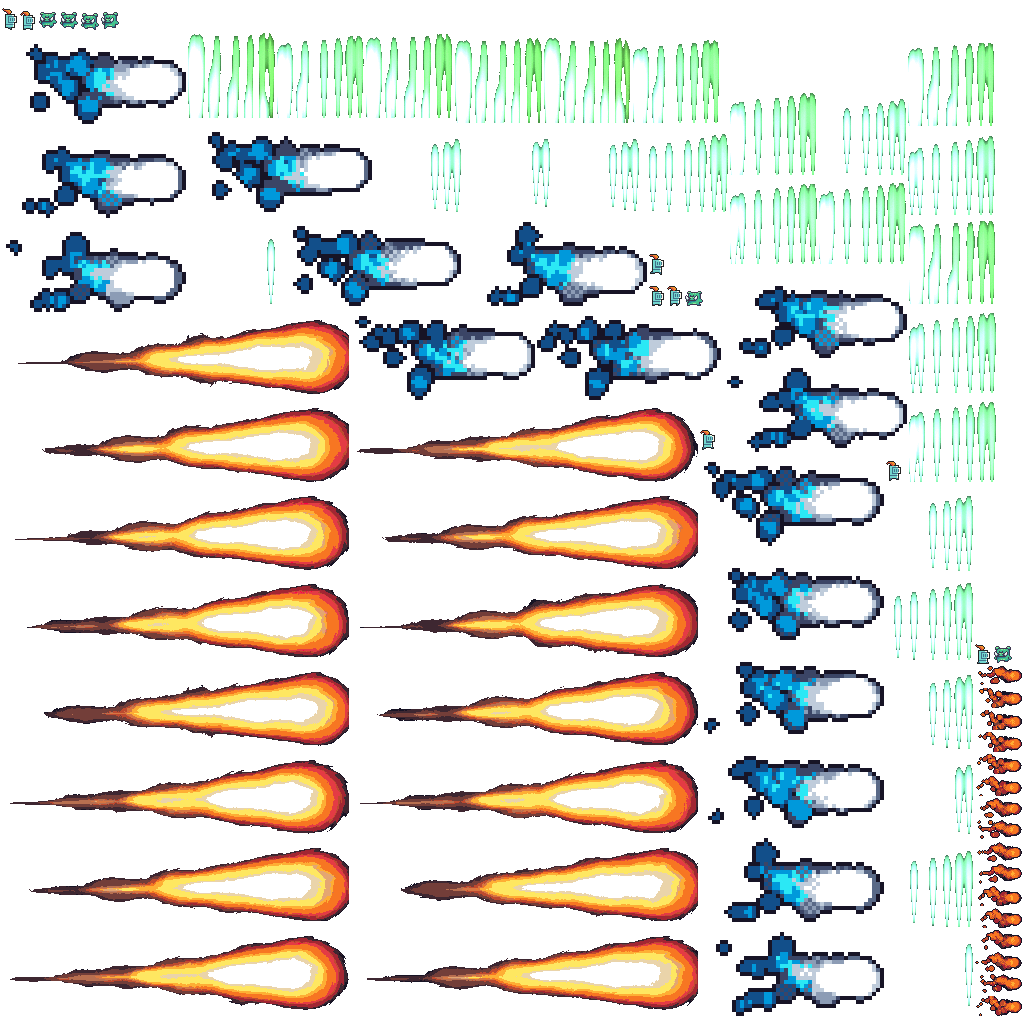
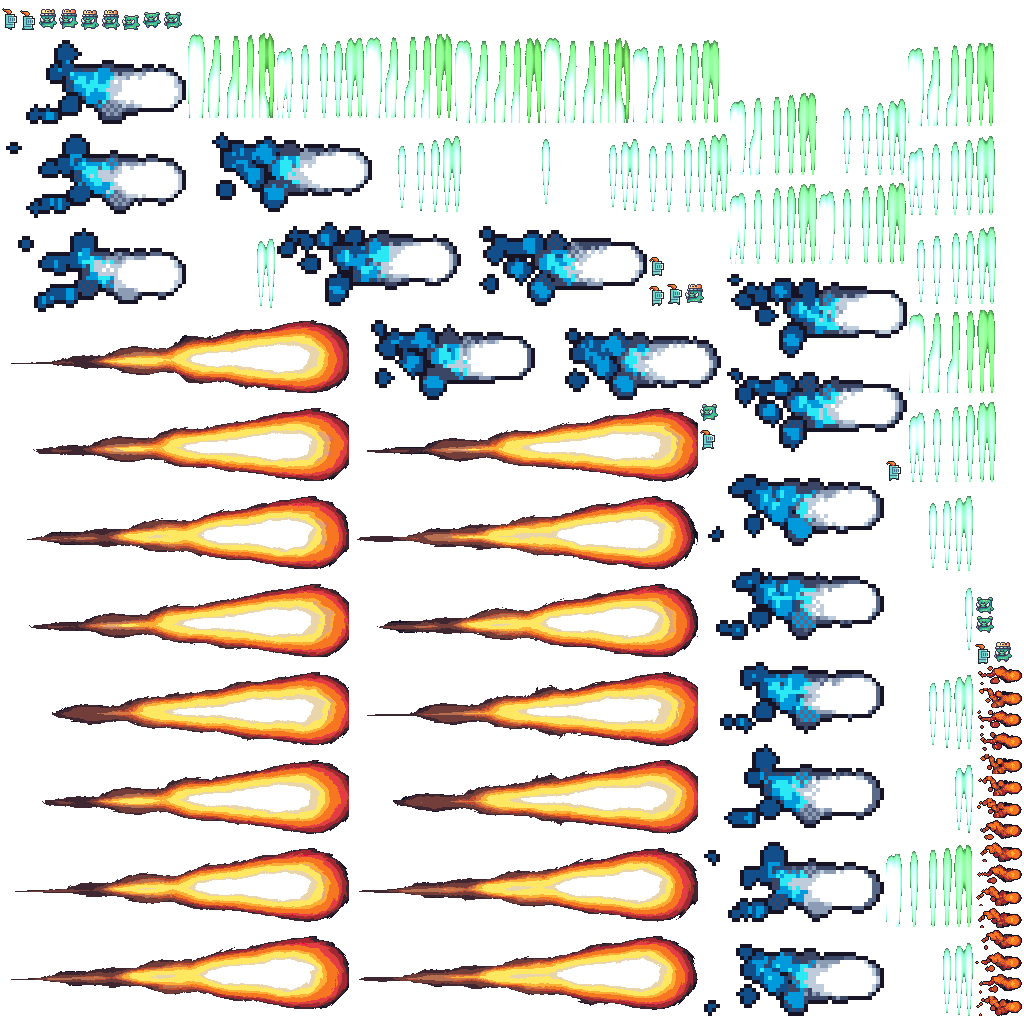
aggiunto nemico 2, anche il salvataggio, manca solo dirlo a tiled quali spawnare

diff --git a/core/src/com/prog/collision/LevelContactListener.java b/core/src/com/prog/collision/LevelContactListener.java
@@ -4,7 +4,7 @@ import com.badlogic.gdx.physics.box2d.Contact;
 import com.badlogic.gdx.physics.box2d.ContactImpulse;
 import com.badlogic.gdx.physics.box2d.ContactListener;
 import com.badlogic.gdx.physics.box2d.Manifold;
-import com.prog.entity.EnemyA;
+import com.prog.entity.Enemy;
 import com.prog.entity.Entity.userDataContainer;
 import com.prog.entity.Player;
 import com.prog.entity.magia.Magia;
@@ -54,60 +54,59 @@ public class LevelContactListener implements ContactListener{
             spellB.alive=false;
         }
         
-        if(!isSensorB && !isSensorA && a != null && a.type == "magia" &&  b != null && b.type == "enemyA")
+        if(!isSensorB && !isSensorA && a != null && a.type == "magia" &&  b != null && (b.type == "enemyA" || b.type == "enemyB"))
         {
             if(a.e instanceof PallaDiFuoco)
-                ((EnemyA)b.e).damage(0.4f);
+                ((Enemy)b.e).damage(0.4f);
             else if(a.e instanceof PallaDiGhiaccio)
             {
-                ((EnemyA)b.e).debuffVelocita();
-                ((EnemyA)b.e).damage(0.2f);
+                ((Enemy)b.e).debuffVelocita();
+                ((Enemy)b.e).damage(0.2f);
             }
             else if(a.e instanceof Meteora)
-                ((EnemyA)b.e).damage(0.8f);
-                
+                ((Enemy)b.e).damage(0.8f); 
         }
         
-        if(!isSensorA && !isSensorB && b != null && a != null &&  b.type == "magia" && a.type == "enemyA")
+        if(!isSensorA && !isSensorB && b != null && a != null &&  b.type == "magia" && (a.type == "enemyA" || a.type == "enemyB"))
         {
             if(b.e instanceof PallaDiFuoco)
-                ((EnemyA)a.e).damage(0.4f);
+                ((Enemy)a.e).damage(0.4f);
             else if(b.e instanceof PallaDiGhiaccio)
             {
-                ((EnemyA)a.e).damage(0.2f);
-                ((EnemyA)a.e).debuffVelocita();
+                ((Enemy)a.e).damage(0.2f);
+                ((Enemy)a.e).debuffVelocita();
             }
             else if(b.e instanceof Meteora)
-                ((EnemyA)a.e).damage(0.8f);
+                ((Enemy)a.e).damage(0.8f);
         }
         
         
-        if(!isSensorA && !isSensorB && b != null && a != null && a.type == "player" && b.type == "enemyA")
+        if(!isSensorA && !isSensorB && b != null && a != null && a.type == "player" && (b.type == "enemyA" || b.type == "enemyB"))
             ((Player)a.e).applyDmg(0.25f);
         
-        if(!isSensorA && !isSensorB && b != null && a != null && b.type == "player" && a.type == "enemyA")
+        if(!isSensorA && !isSensorB && b != null && a != null && b.type == "player" && (a.type == "enemyA" || a.type == "enemyB"))
             ((Player)b.e).applyDmg(0.25f);
         
         
         //se un nemico tocca qualunque cosa che non sia il player 
         if(isSensorA && a.type=="enemyLeftFoot" &&!(b != null && (b.type == "player" || b.type == "player_foot")))
         {
-            ((EnemyA)a.e).walkLeft=false;
+            ((Enemy)a.e).walkLeft=false;
         }
         
         if(isSensorB && b.type=="enemyLeftFoot" && !(a != null && (a.type == "player" || a.type == "player_foot")))
         {
-            ((EnemyA)b.e).walkLeft=false;
+            ((Enemy)b.e).walkLeft=false;
         }
         
         if(isSensorA && a.type=="enemyRightFoot" &&!(b != null && (b.type == "player" || b.type == "player_foot")))
         {
-            ((EnemyA)a.e).walkLeft=true;
+            ((Enemy)a.e).walkLeft=true;
         }
         
         if(isSensorB && b.type=="enemyRightFoot"&& !(a != null && (a.type == "player" || a.type == "player_foot")))
         {
-            ((EnemyA)b.e).walkLeft=true;
+            ((Enemy)b.e).walkLeft=true;
         }
         
         //fine collisione piedi del nemico con le mura
@@ -138,22 +137,22 @@ public class LevelContactListener implements ContactListener{
         //piediiiii
         if(isSensorA && a.type=="enemyLeftFoot")
         {
-            ((EnemyA)a.e).walkLeft=false;
+            ((Enemy)a.e).walkLeft=false;
         }
         
         if(isSensorB && b.type=="enemyLeftFoot")
         {
-            ((EnemyA)b.e).walkLeft=false;
+            ((Enemy)b.e).walkLeft=false;
         }
         
         if(isSensorA && a.type=="enemyRightFoot")
         {
-            ((EnemyA)a.e).walkLeft=true;
+            ((Enemy)a.e).walkLeft=true;
         }
         
         if(isSensorB && b.type=="enemyRightFoot")
         {
-            ((EnemyA)b.e).walkLeft=true;
+            ((Enemy)b.e).walkLeft=true;
         }
     }
 

diff --git a/core/src/com/prog/entity/EnemyFactory.java b/core/src/com/prog/entity/EnemyFactory.java
@@ -30,22 +30,21 @@ public class EnemyFactory {
         }
     };
     
-    /*
+    
     private final Pool<EnemyB> EnemyBPool = new Pool<EnemyB>() {
         @Override
         protected EnemyB newObject() {
             return new EnemyB();
         }
-    };*/
+    };
     
     //chiamala quando vuoi creare una spell
     public Enemy createEnemy(EnemyType t){
        switch(t){
          case A:
             return EnemyAPool.obtain();
-         /*case B:
+         case B:
              return EnemyBPool.obtain();
-         */
         }
         //altrimenti ritorno null
         return null;
@@ -56,9 +55,9 @@ public class EnemyFactory {
        if(e instanceof EnemyA){
          EnemyAPool.free((EnemyA)e);
        }
-       /*else if(e instanceof EnemyB){
+       else if(e instanceof EnemyB){
          EnemyBPool.free((EnemyB)e);
-       }*/
+       }
     }
     
     public static Vector2 getPlayerPos()
@@ -112,7 +111,11 @@ public class EnemyFactory {
                     e.init(s.getPos(), s.getHp());
                     activeEnemies.add(e);
                     break;
-                
+                case "E2":
+                    Enemy e2 = createEnemy(EnemyType.B);
+                    e2.init(s.getPos(),s.getHp());
+                    activeEnemies.add(e2);
+                    break;
             }
         }
     }

diff --git a/core/src/com/prog/world/Livello1.java b/core/src/com/prog/world/Livello1.java
@@ -113,11 +113,7 @@ public class Livello1 extends Livello implements Screen{
         tex = new Texture("images/tutorial1.png");
         tex2 = new Texture("images/tutorial2.png");
         tex3 = new Texture("images/tutorial3.png");
-        tex4 = new Texture("images/tutorial4.png");
-
-        
-
-        
+        tex4 = new Texture("images/tutorial4.png"); 
     }
 
     @Override
@@ -202,7 +198,7 @@ public class Livello1 extends Livello implements Screen{
         Gdx.gl.glViewport(0,75,800, 525);
         //prima renderizzo la mappa e poi il player o altre cose
         mapRenderer.setView(cam);
-        //mapRenderer.render();
+        mapRenderer.render();
         //guardo entities e renderizzo cose
         batch.begin();
         for(Entity e:entities)
